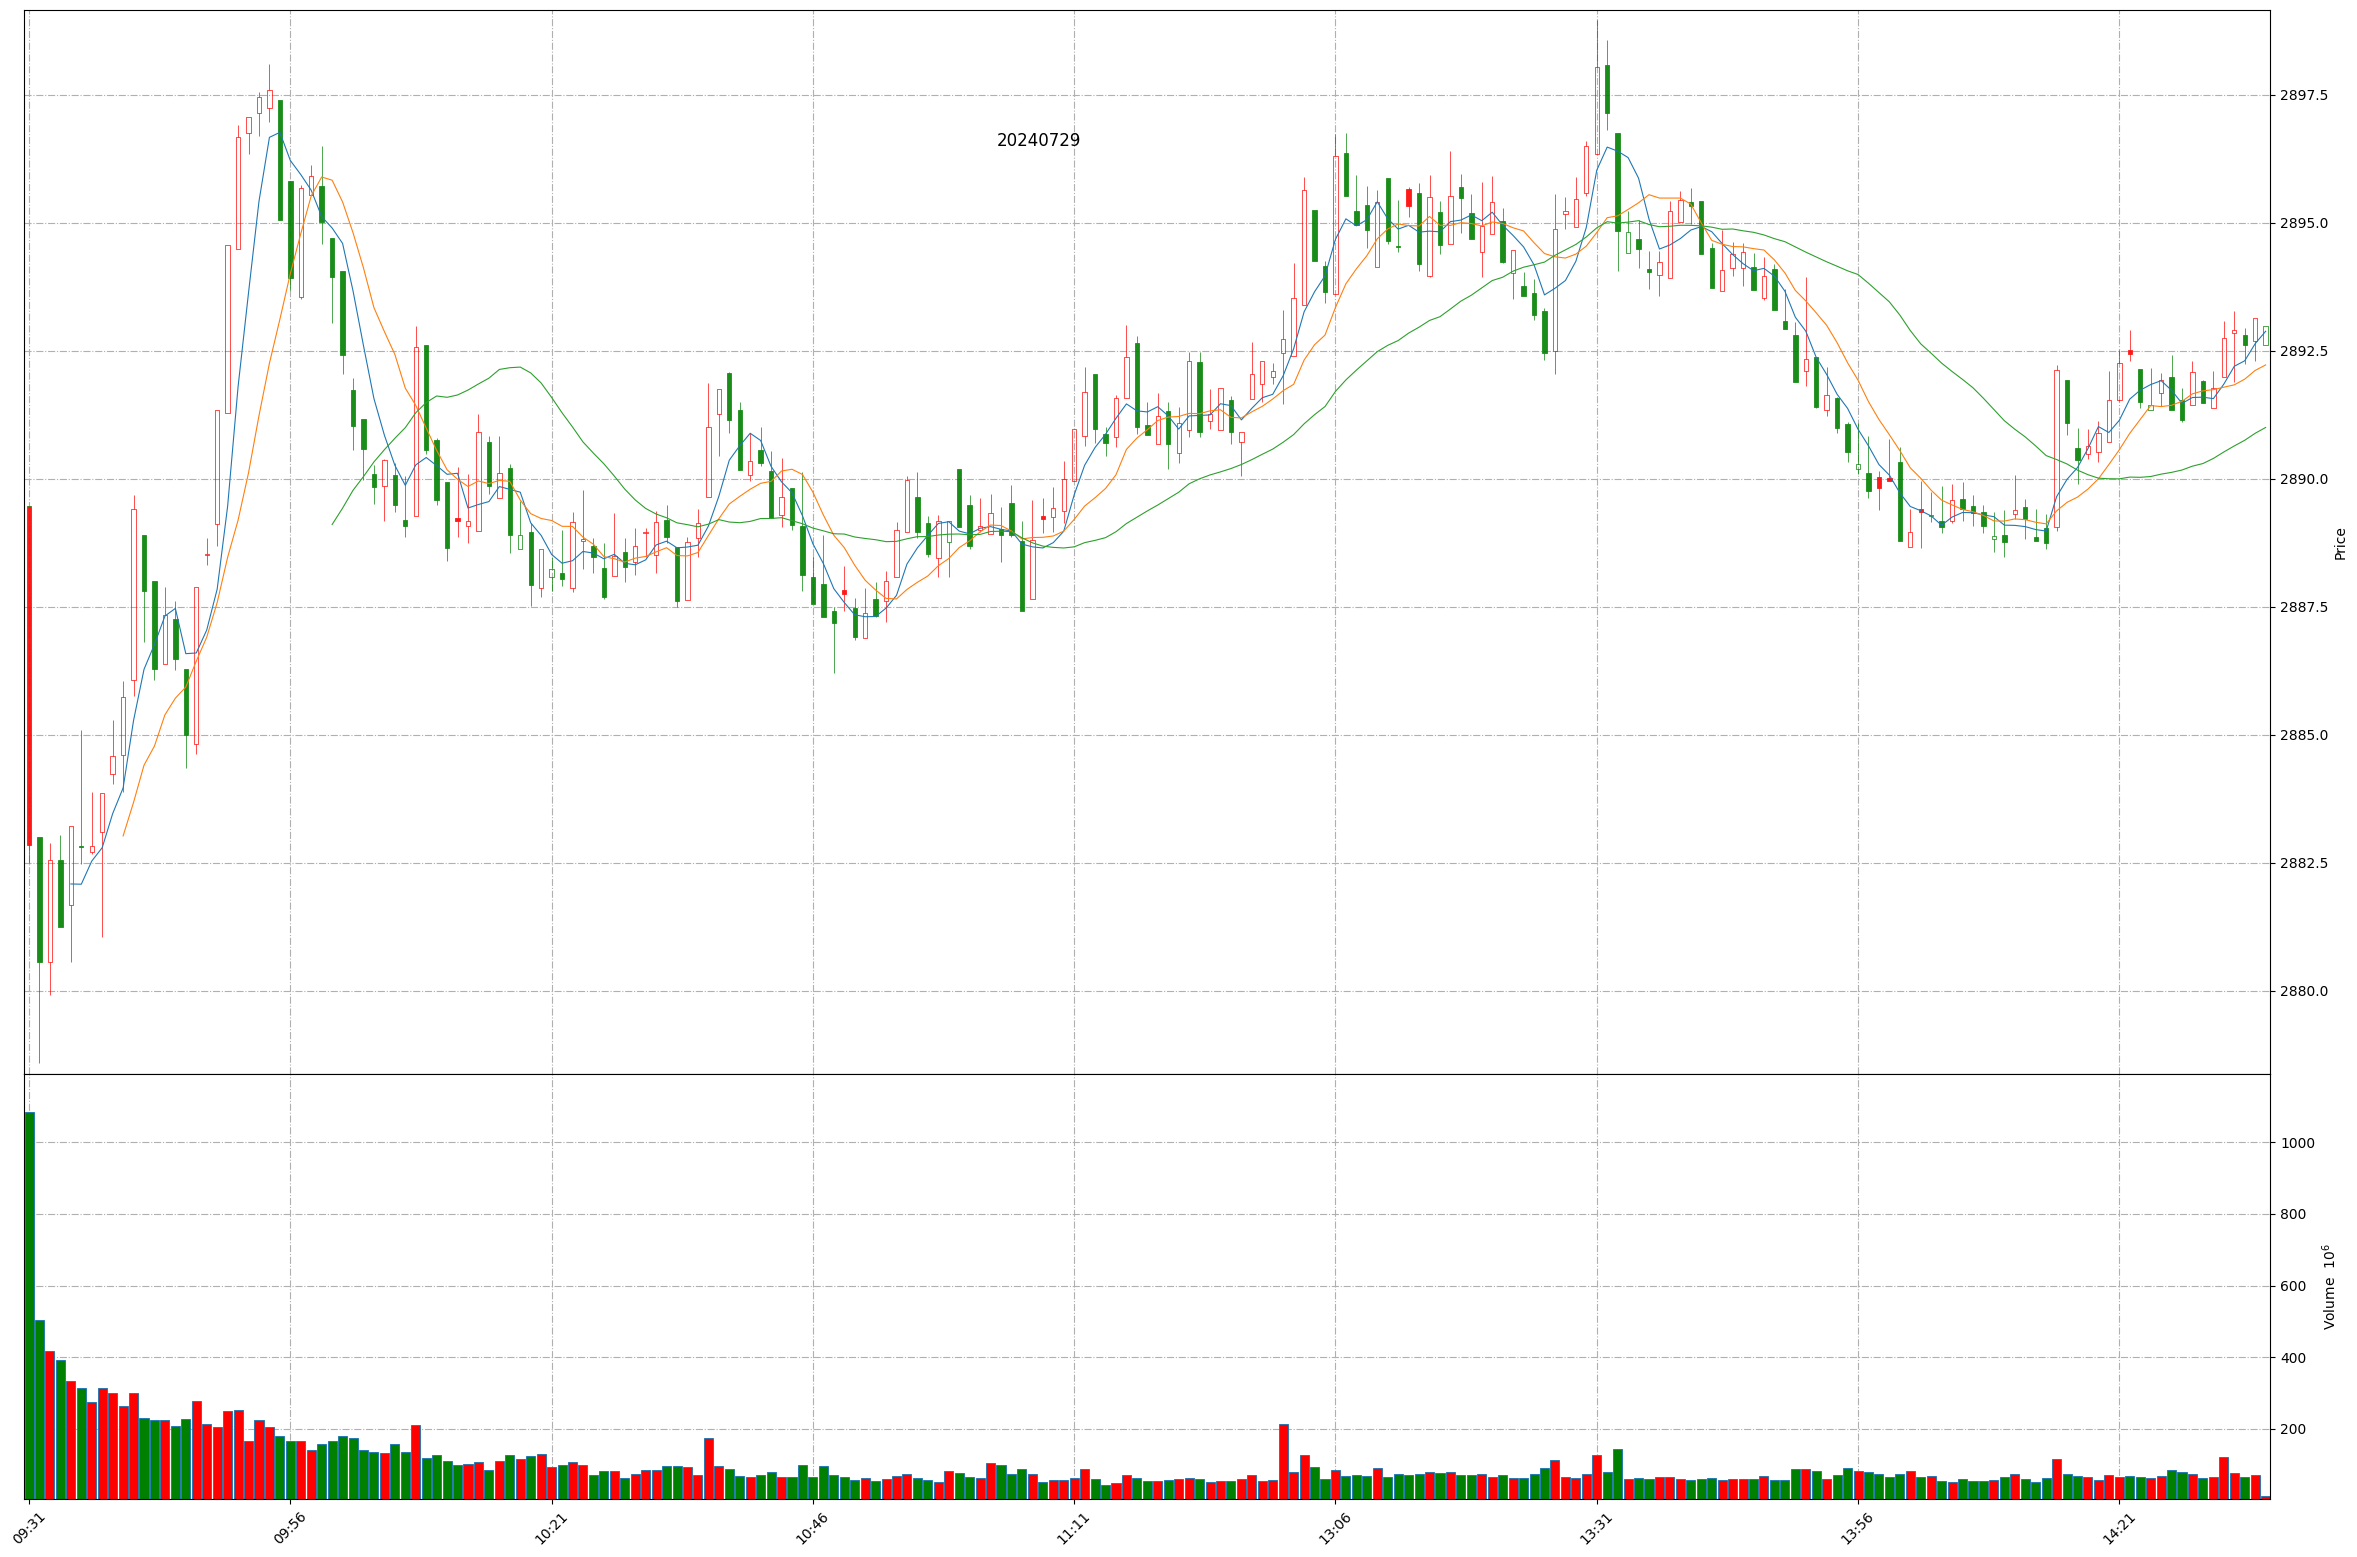
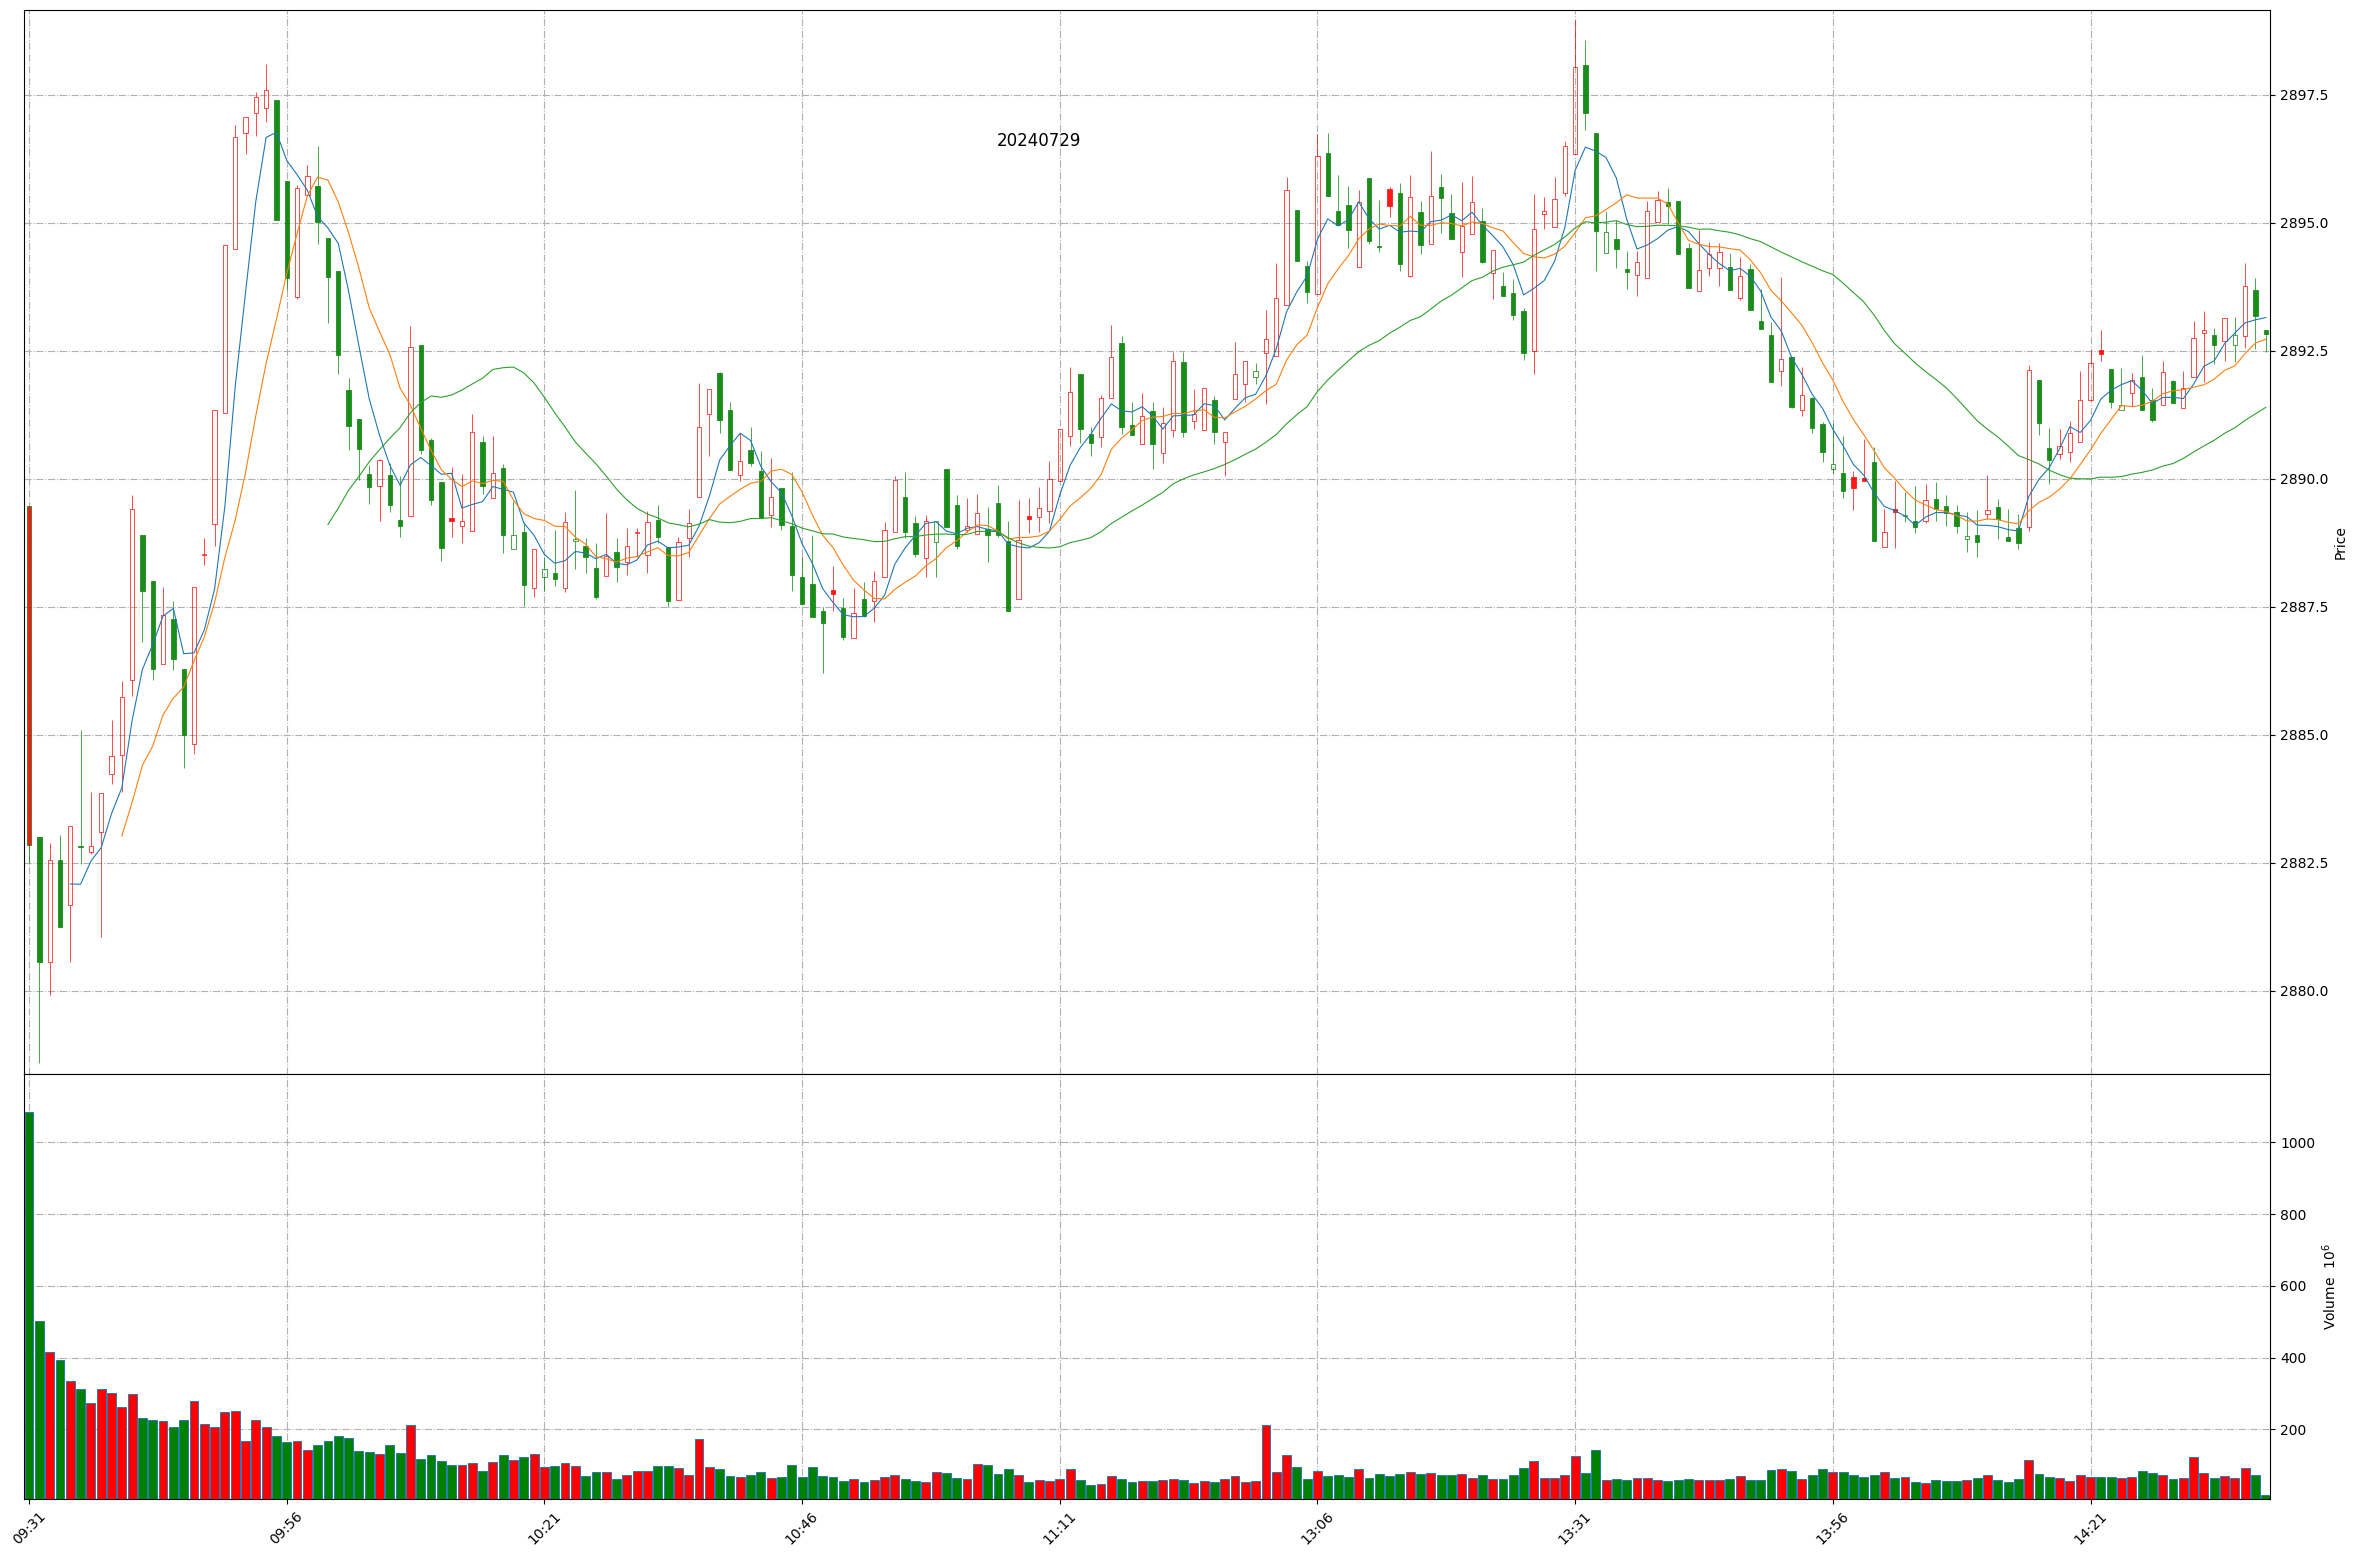
Github action update at 2024-07-29 14:37:40.

diff --git a/README.md b/README.md
@@ -1,11 +1,11 @@
 
 # Daily-A-share-market-quotes 每日 A 股指数（5min 更新）- 20240729
 
-### 上证指数 20240729 14:34
+### 上证指数 20240729 14:37
 ![](./fig/2024/7/20240729-sh000001.png)
 
-### 深证成指 20240729 14:34
+### 深证成指 20240729 14:37
 ![](./fig/2024/7/20240729-sz399001.png)
 
-### 北证50 20240729 14:34
+### 北证50 20240729 14:37
 ![](./fig/2024/7/20240729-bj899050.png)
